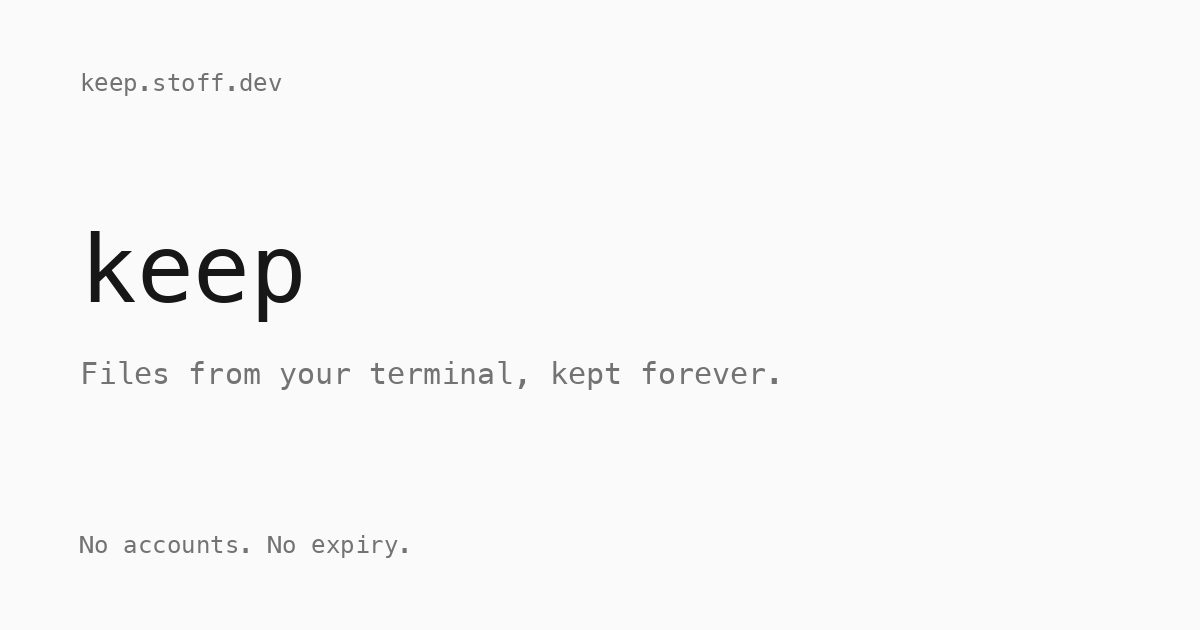
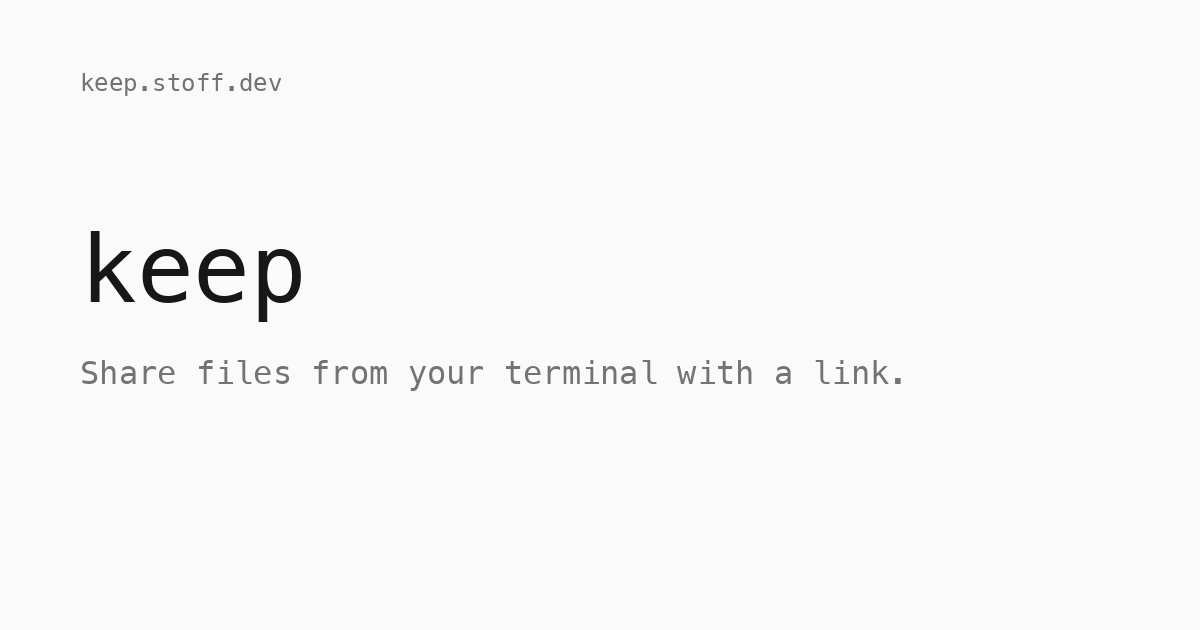
docs: align keep tagline (#106)

Changed region(s): [[0.0617, 0.573, 0.74, 0.6333], [0.0617, 0.8444, 0.3392, 0.8746]]

diff --git a/src/pages.ts b/src/pages.ts
@@ -2,7 +2,7 @@ import type { StoredFile } from "./index"
 import { imageType } from "./previews"
 
 const SOURCE_URL = "https://github.com/Stoffbergie/keep"
-const TAGLINE = "Files from your terminal, kept forever."
+const TAGLINE = "Share files from your terminal with a link."
 const HTML_ENTITIES: Record<string, string> = {
   "&": "&amp;",
   "<": "&lt;",
@@ -191,7 +191,7 @@ function usage(origin: string): Section[] {
 }
 
 export function homeText(origin: string): string {
-  const lines = [`keep: ${TAGLINE.toLowerCase()}`, "", AUTOMATION_GUIDANCE, ""]
+  const lines = [`keep: ${TAGLINE}`, "", AUTOMATION_GUIDANCE, ""]
   for (const section of usage(origin)) {
     lines.push(section.title.toUpperCase())
     const width = Math.max(...section.rows.map(([command]) => command.length))
@@ -214,15 +214,15 @@ export function homePage(origin: string): string {
       return `<h2>${section.title}</h2><dl class="commands">${rows}</dl>`
     })
   return layout(
-    "keep · Share a file. Get a link.",
-    `<h1>Share a file. Get a link.</h1>
+    `keep · ${TAGLINE}`,
+    `<h1>${TAGLINE}</h1>
 <p hidden id="automation">${escapeHtml(AUTOMATION_GUIDANCE)}</p>
 ${sections.slice(0, 2).join("")}
 <details><summary>More options</summary>${sections.slice(2).join("")}</details>
 <footer><p><a href="${SOURCE_URL}">Source</a></p></footer>
 <script type="application/ld+json">${JSON.stringify({ "@context": "https://schema.org", "@type": "WebSite", name: "keep", url: `${origin}/`, description: TAGLINE })}</script>`,
     {
-      description: `${TAGLINE} Upload, share and download files with optional encryption and expiry. No accounts.`,
+      description: TAGLINE,
       url: `${origin}/`,
       image: `${origin}/social/keep.png`,
       imageAlt: TAGLINE,

diff --git a/cli/src/main.rs b/cli/src/main.rs
@@ -16,7 +16,7 @@ mod upload;
 #[command(
     name = "keep",
     version,
-    about = "Files from your terminal, kept forever",
+    about = "Share files from your terminal with a link.",
     args_conflicts_with_subcommands = true,
     after_help = "Examples:\n  keep report.pdf notes.txt        Share files, one link each\n  keep                             Share copied text, an image or files\n  keep -e --expires 1d --once .env Encrypt; delete after a day or one download\n  make 2>&1 | keep - -n build.log  Share command output\n  keep get x7k2mzq4                Save with its original filename\n  keep get x7k2mzq4 -o -           Write file contents to stdout\n  keep rm x7k2mzq4 b8p4ntw6        Delete uploads from this machine\n  keep --no-copy report.pdf        Upload without changing the clipboard\n  keep config --copy false         Disable copying links by default\n\nUse | to pipe into keep; > writes to a file.\n--expires once still works; --once also combines with a deadline.\nOpening a page or link preview does not count as a download.\nSet KEEP_URL to use another server."
 )]

diff --git a/README.md b/README.md
@@ -5,8 +5,7 @@
 <h1 align="center">keep</h1>
 
 <p align="center">
-  <strong>Upload a file. Share a link.</strong><br />
-  Files, screenshots and command output, straight from your terminal.
+  <strong>Share files from your terminal with a link.</strong>
 </p>
 
 <p align="center">
